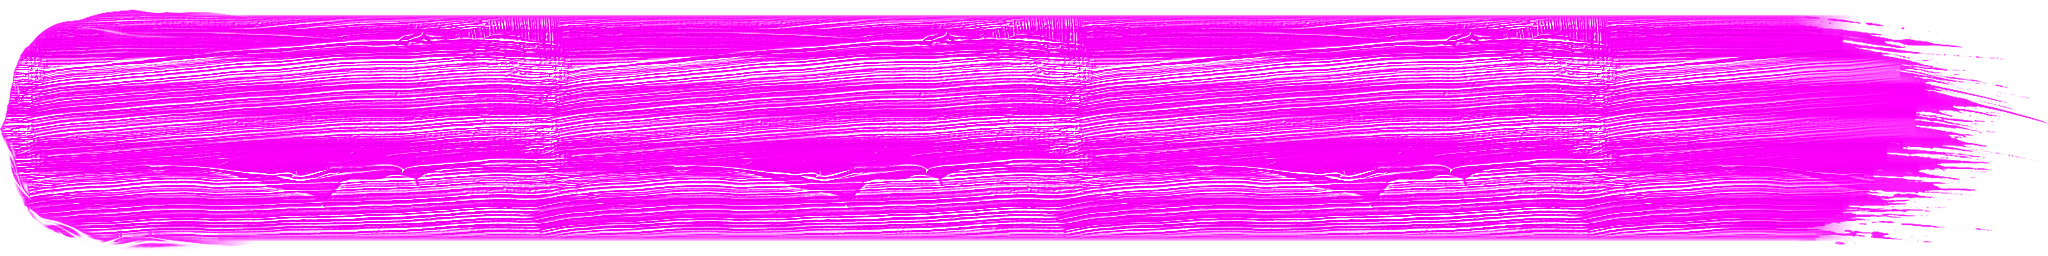
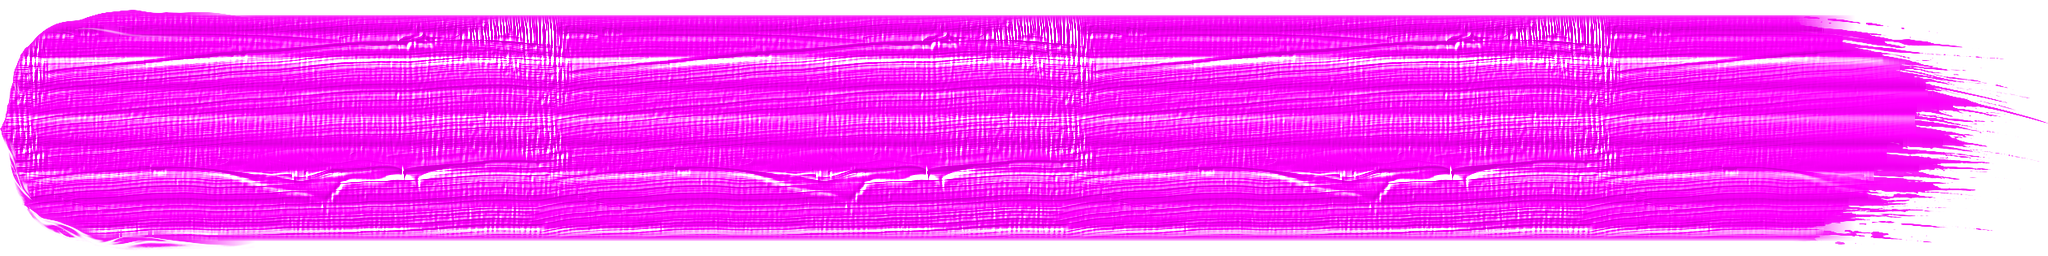
feat(brush): 납작붓 물감 엠보스(붓털 골 빛·그늘) — 3D 물감 질감
- 높이(dev, 세로 σ2.5) 기울기로 하이라이트(G)·옅은 그늘(R 하한 0.82) — 획 축소 후에도 골이 남게 4px 오프셋

diff --git a/scripts/process-ribbon.py b/scripts/process-ribbon.py
@@ -30,6 +30,7 @@ from texture_lib import _quilt_wrap_x, to_gray  # noqa: E402
 # 물감 표면(붓털 이랑) — Firefly 레이킹 라이트 임파스토 사진. 띠 전체에 깔아 «물감이 쌓인» 질감을 낸다
 # (2026-10-08 사용자 «물감도 파이어플라이로 쌓이는 질감 표현 못하나?»)
 PAINT_SRC = Path(__file__).resolve().parent.parent / "assets-src/textures/sources/firefly-paint3d.png"
+EMBOSS = 1.6  # 엠보스(높이 기울기 → 명암) 세기
 PAINT = 0.28  # dev 단위 세기
 
 
@@ -207,8 +208,17 @@ def pack_channels(dev: np.ndarray, A: np.ndarray, lift: np.ndarray, rim: float =
     붓결을 어두운 골로만 그리면 획 전체가 고른 색보다 어둡고 «검은 느낌»이 났다(2026-10-08 사용자 두 번째 지적).
     아트봉봉처럼 몸통은 제 색 그대로, 결은 밝은 줄로. 테두리는 어둡게 하지 않고 옅은 흰 테.
     """
-    r = np.clip(1 + np.minimum(dev, 0) * 0.25, 0.9, 1.0)  # 골은 거의 안 어둡게 — 물감은 한 색(아트봉봉)
-    g = np.clip(np.maximum(dev, 0) * 3.4, 0, 1)  # 2.5 → 3.4: 2026-10-08 «붓결 더 강하게»(4.0 은 획이 하얗게 바램)
+    # 입체(엠보스): dev 를 물감 «높이»로 보고 빛(획 진행 방향 기준 위쪽·약간 앞)에서 본 기울기로 명암을 만든다.
+    # 밝은 줄만 있으면 납작한 인쇄처럼 보였다 — 아트봉봉 물감은 붓털 골마다 밝은 쪽·그늘진 쪽이 짝을 이룬다
+    # (2026-10-08 사용자 «이 물감의 3D 질감은 없는데?»). 평탄 성분(dev)도 조금 남긴다.
+    # 띠는 획에서 1/3~1/6 로 줄어 그려진다 — 높이를 세로 σ2.5 로 흐리고 4px 어긋나게 비춰야 골이 몇 px 로 남는다
+    k = np.exp(-(np.arange(-7, 8) ** 2) / (2 * 2.5**2))
+    k /= k.sum()
+    hgt = np.apply_along_axis(lambda c: np.convolve(c, k, mode="same"), 0, dev)
+    emb = (hgt - np.roll(np.roll(hgt, 4, 0), 2, 1)) * EMBOSS
+    shade = emb + dev * 0.35
+    r = np.clip(1 + np.minimum(shade, 0) * 0.6, 0.82, 1.0)  # 그늘은 옅게(검은 얼룩 금지)
+    g = np.clip(np.maximum(shade, 0) * 3.4, 0, 1)
     # 테두리는 몸통 «평균» 명암으로 — 1(가장 밝음)로 올리면 밝은 색은 흰 테, 어두운 색은 (골이 밝아지는
     # 셰이더 특성상) 오히려 가장 어두운 테가 되어, 덧칠할 때마다 붓질 윤곽선이 낙서처럼 남았다(2026-10-08).
     body = (A > 0.9) & (lift < 0.05)
